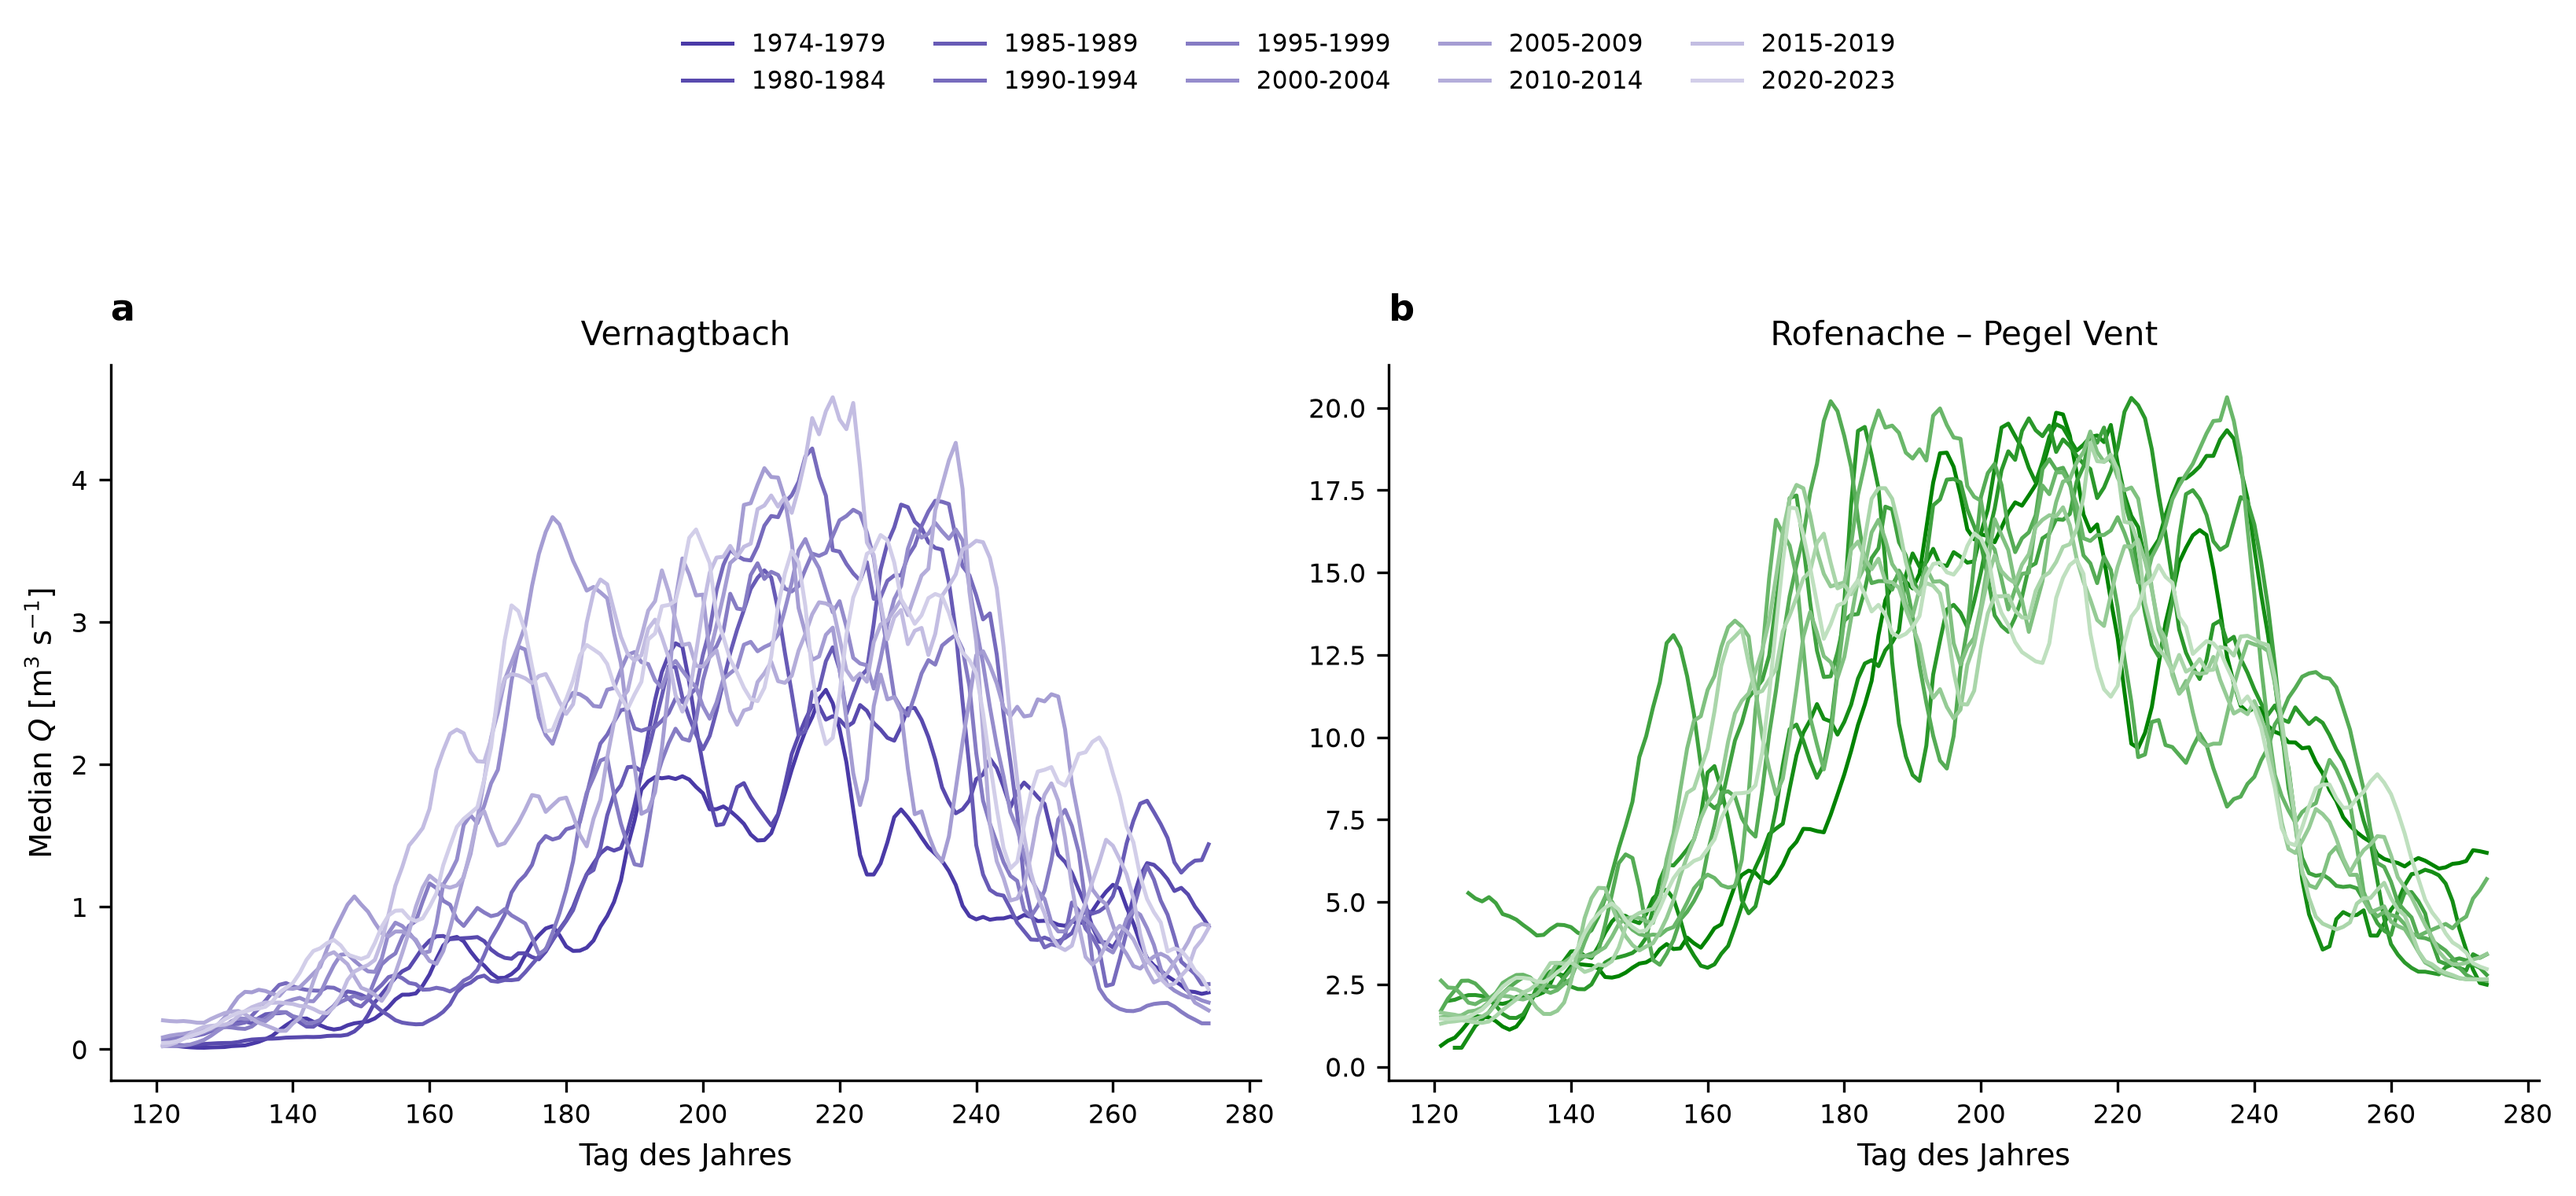
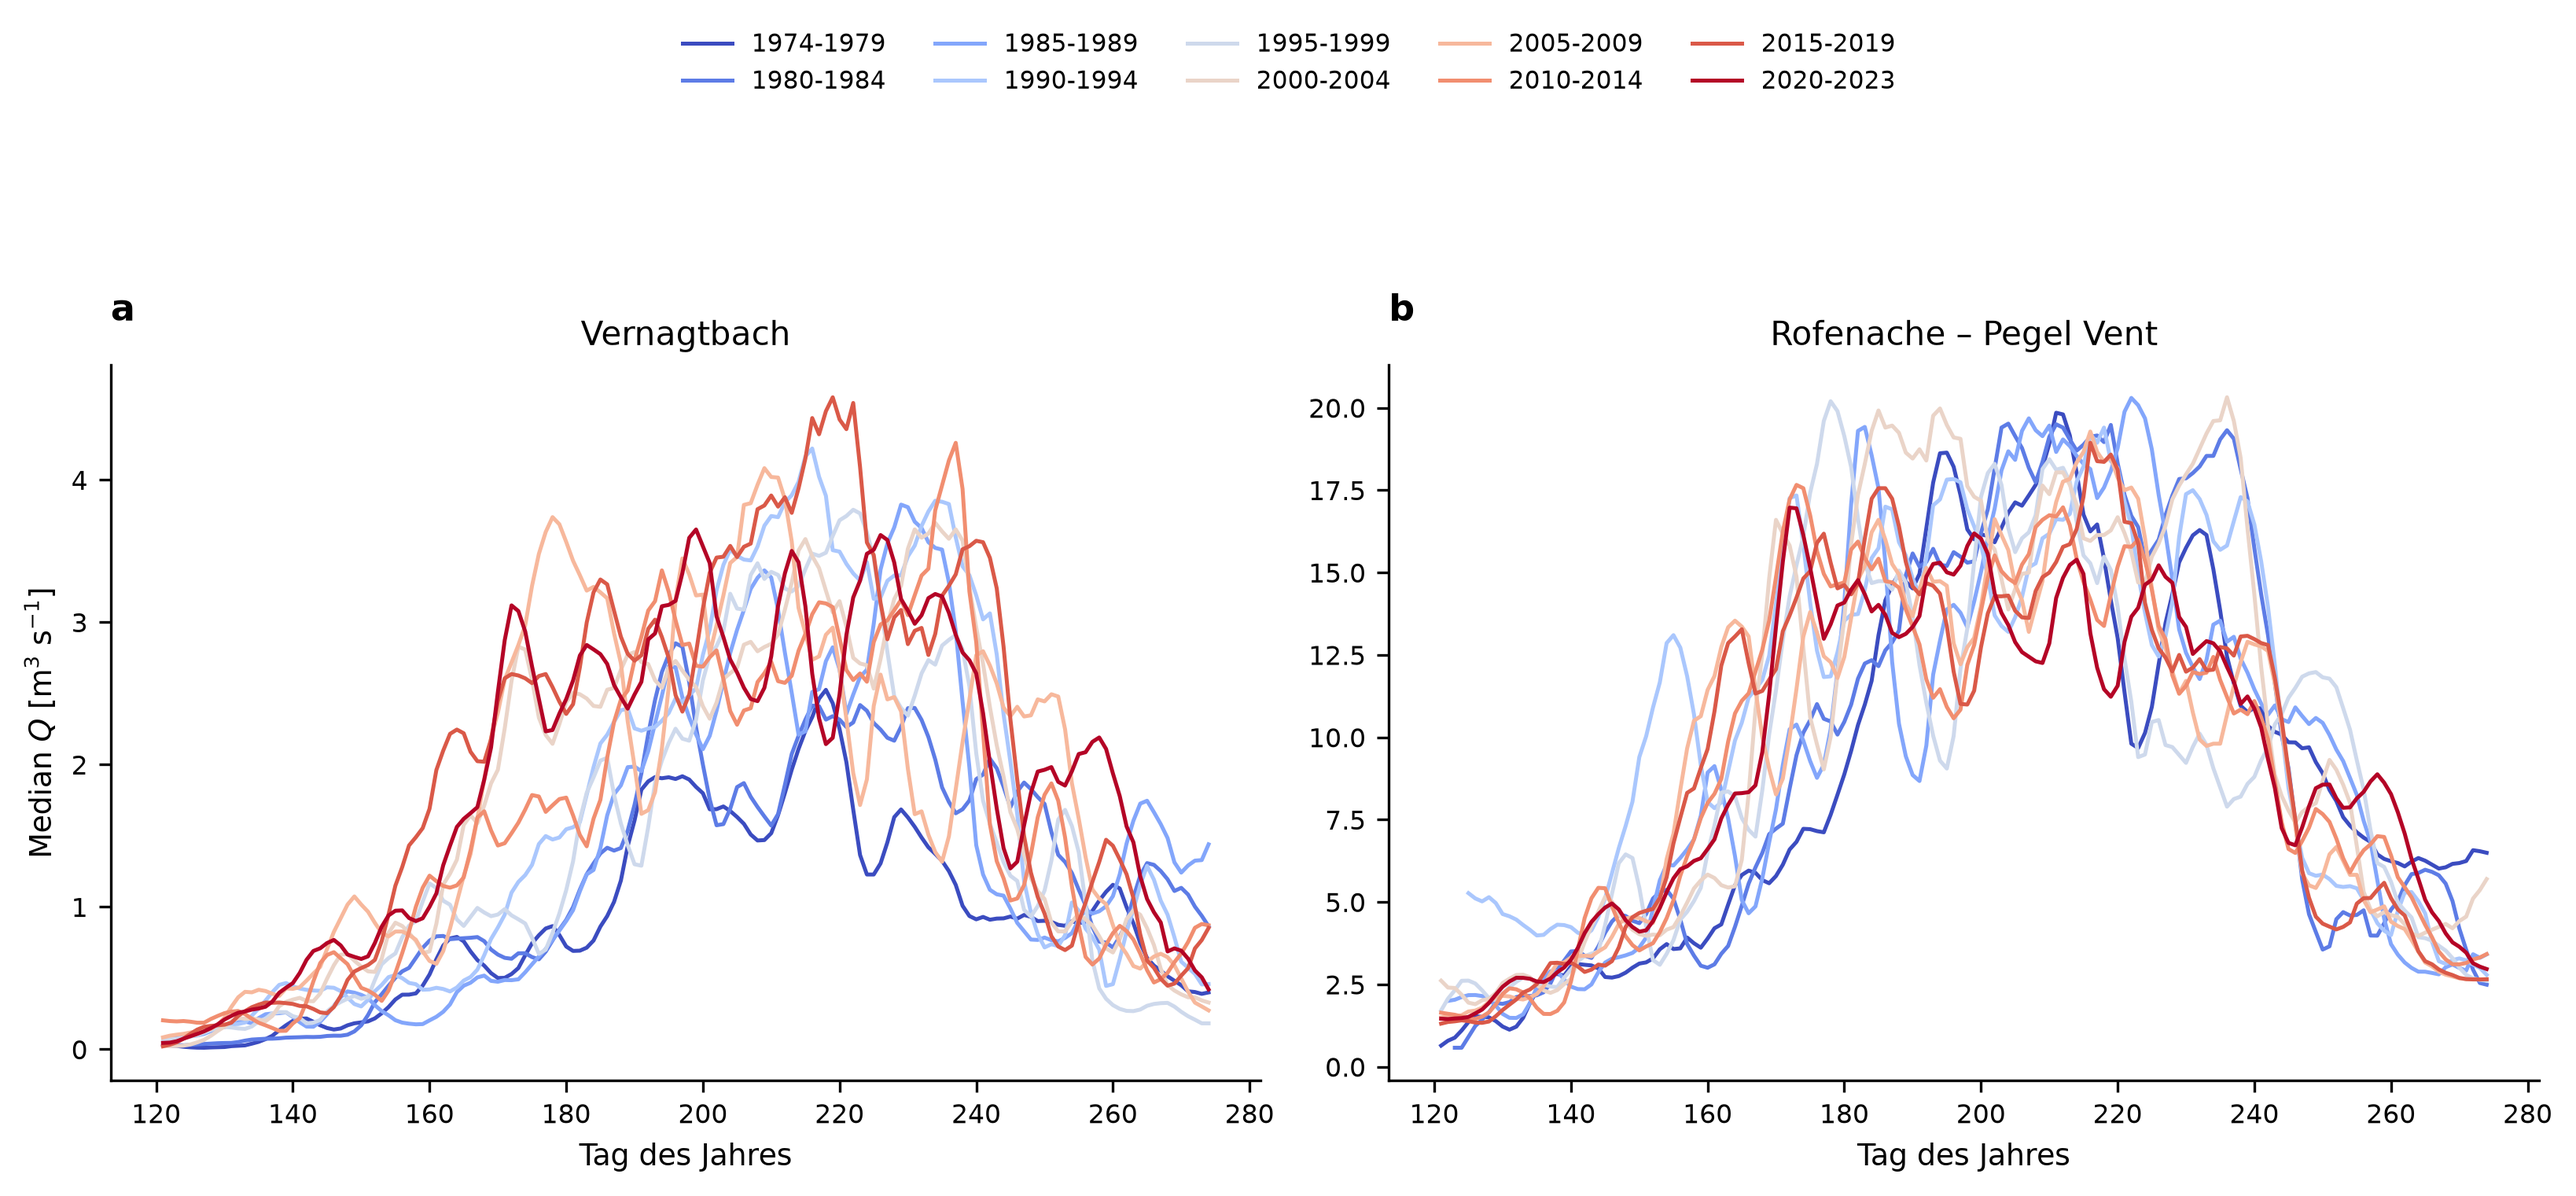
Recolor fig7 period-gradient as blue-to-red (climate-stripes convention)
Early periods now render blue (cool/past), late periods red
(warm/present), replacing the catchment-hue-tinted gradient - clearer
at-a-glance reading of which curves are old vs. recent.

Changed region(s): [[0.5604, 0.3399, 0.9652, 0.8652], [0.0623, 0.3399, 0.467, 0.8961]]

diff --git a/scripts/04_make_figures.py b/scripts/04_make_figures.py
@@ -161,18 +161,15 @@ def fig_seasonal_by_period_gradient(df):
     d["periode"] = d["year"].apply(period_label)
     period_labels = [f"{a}-{b}" for a, b in PERIOD_BINS]
 
-    def shades(base_hex, n):
-        base = np.array(mcolors.to_rgb(base_hex))
-        white = np.array([1, 1, 1])
-        fracs = np.linspace(0.0, 0.75, n)  # early=dark (base color), late=light
-        return [tuple(base * (1 - f) + white * f) for f in fracs]
+    # climate-stripes convention: early period = blue (cool/past), late = red (warm/present)
+    cmap = plt.get_cmap("coolwarm", len(period_labels))
+    grad_colors = [cmap(i) for i in range(len(period_labels))]
 
-    panels = [("Q_Vernagt", "Vernagtbach", C_VERNAGT_PEAK, "a"),
-              ("Q_Niedertalbach", "Rofenache – Pegel Vent", C_NIEDER_PEAK, "b")]
+    panels = [("Q_Vernagt", "Vernagtbach", "a"),
+              ("Q_Niedertalbach", "Rofenache – Pegel Vent", "b")]
     fig, axes = plt.subplots(1, 2, figsize=(11, 4.6), dpi=300, sharex=True)
-    for ax, (col, title, base_color, lab) in zip(axes, panels):
-        colors = shades(base_color, len(period_labels))
-        for pl, c in zip(period_labels, colors):
+    for ax, (col, title, lab) in zip(axes, panels):
+        for pl, c in zip(period_labels, grad_colors):
             sub = d[d["periode"] == pl].dropna(subset=[col])
             if len(sub) == 0:
                 continue
